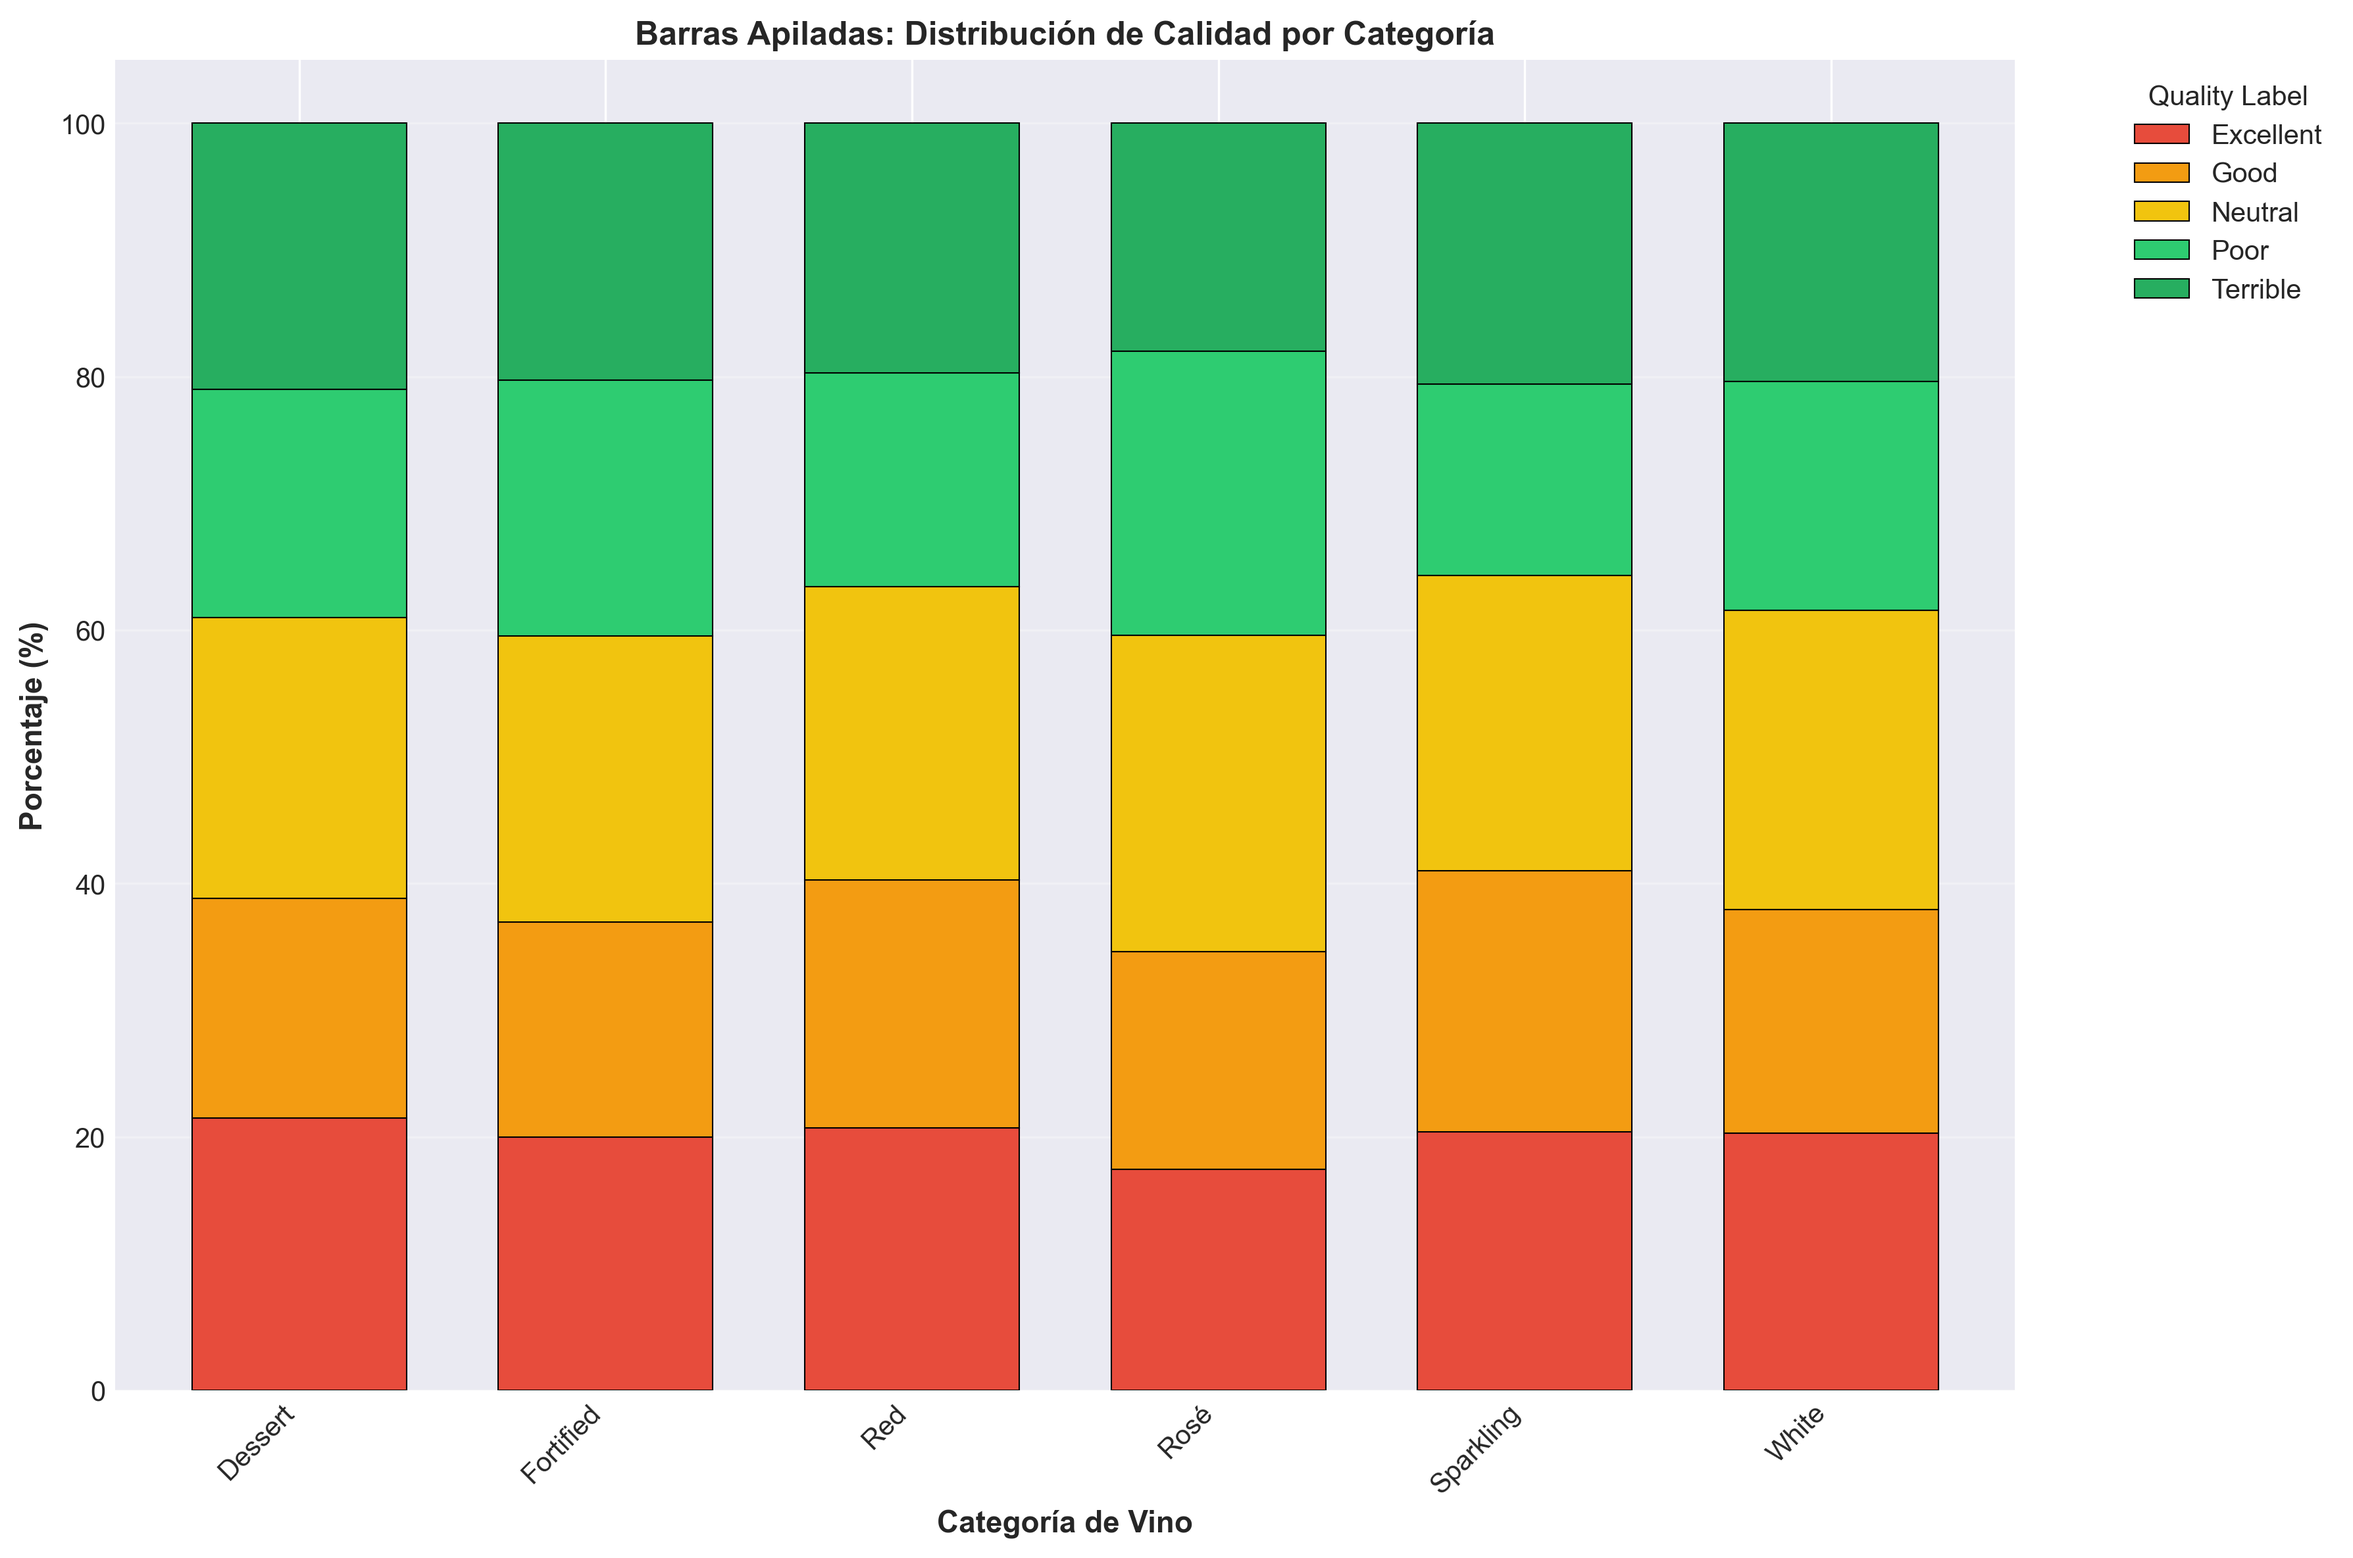
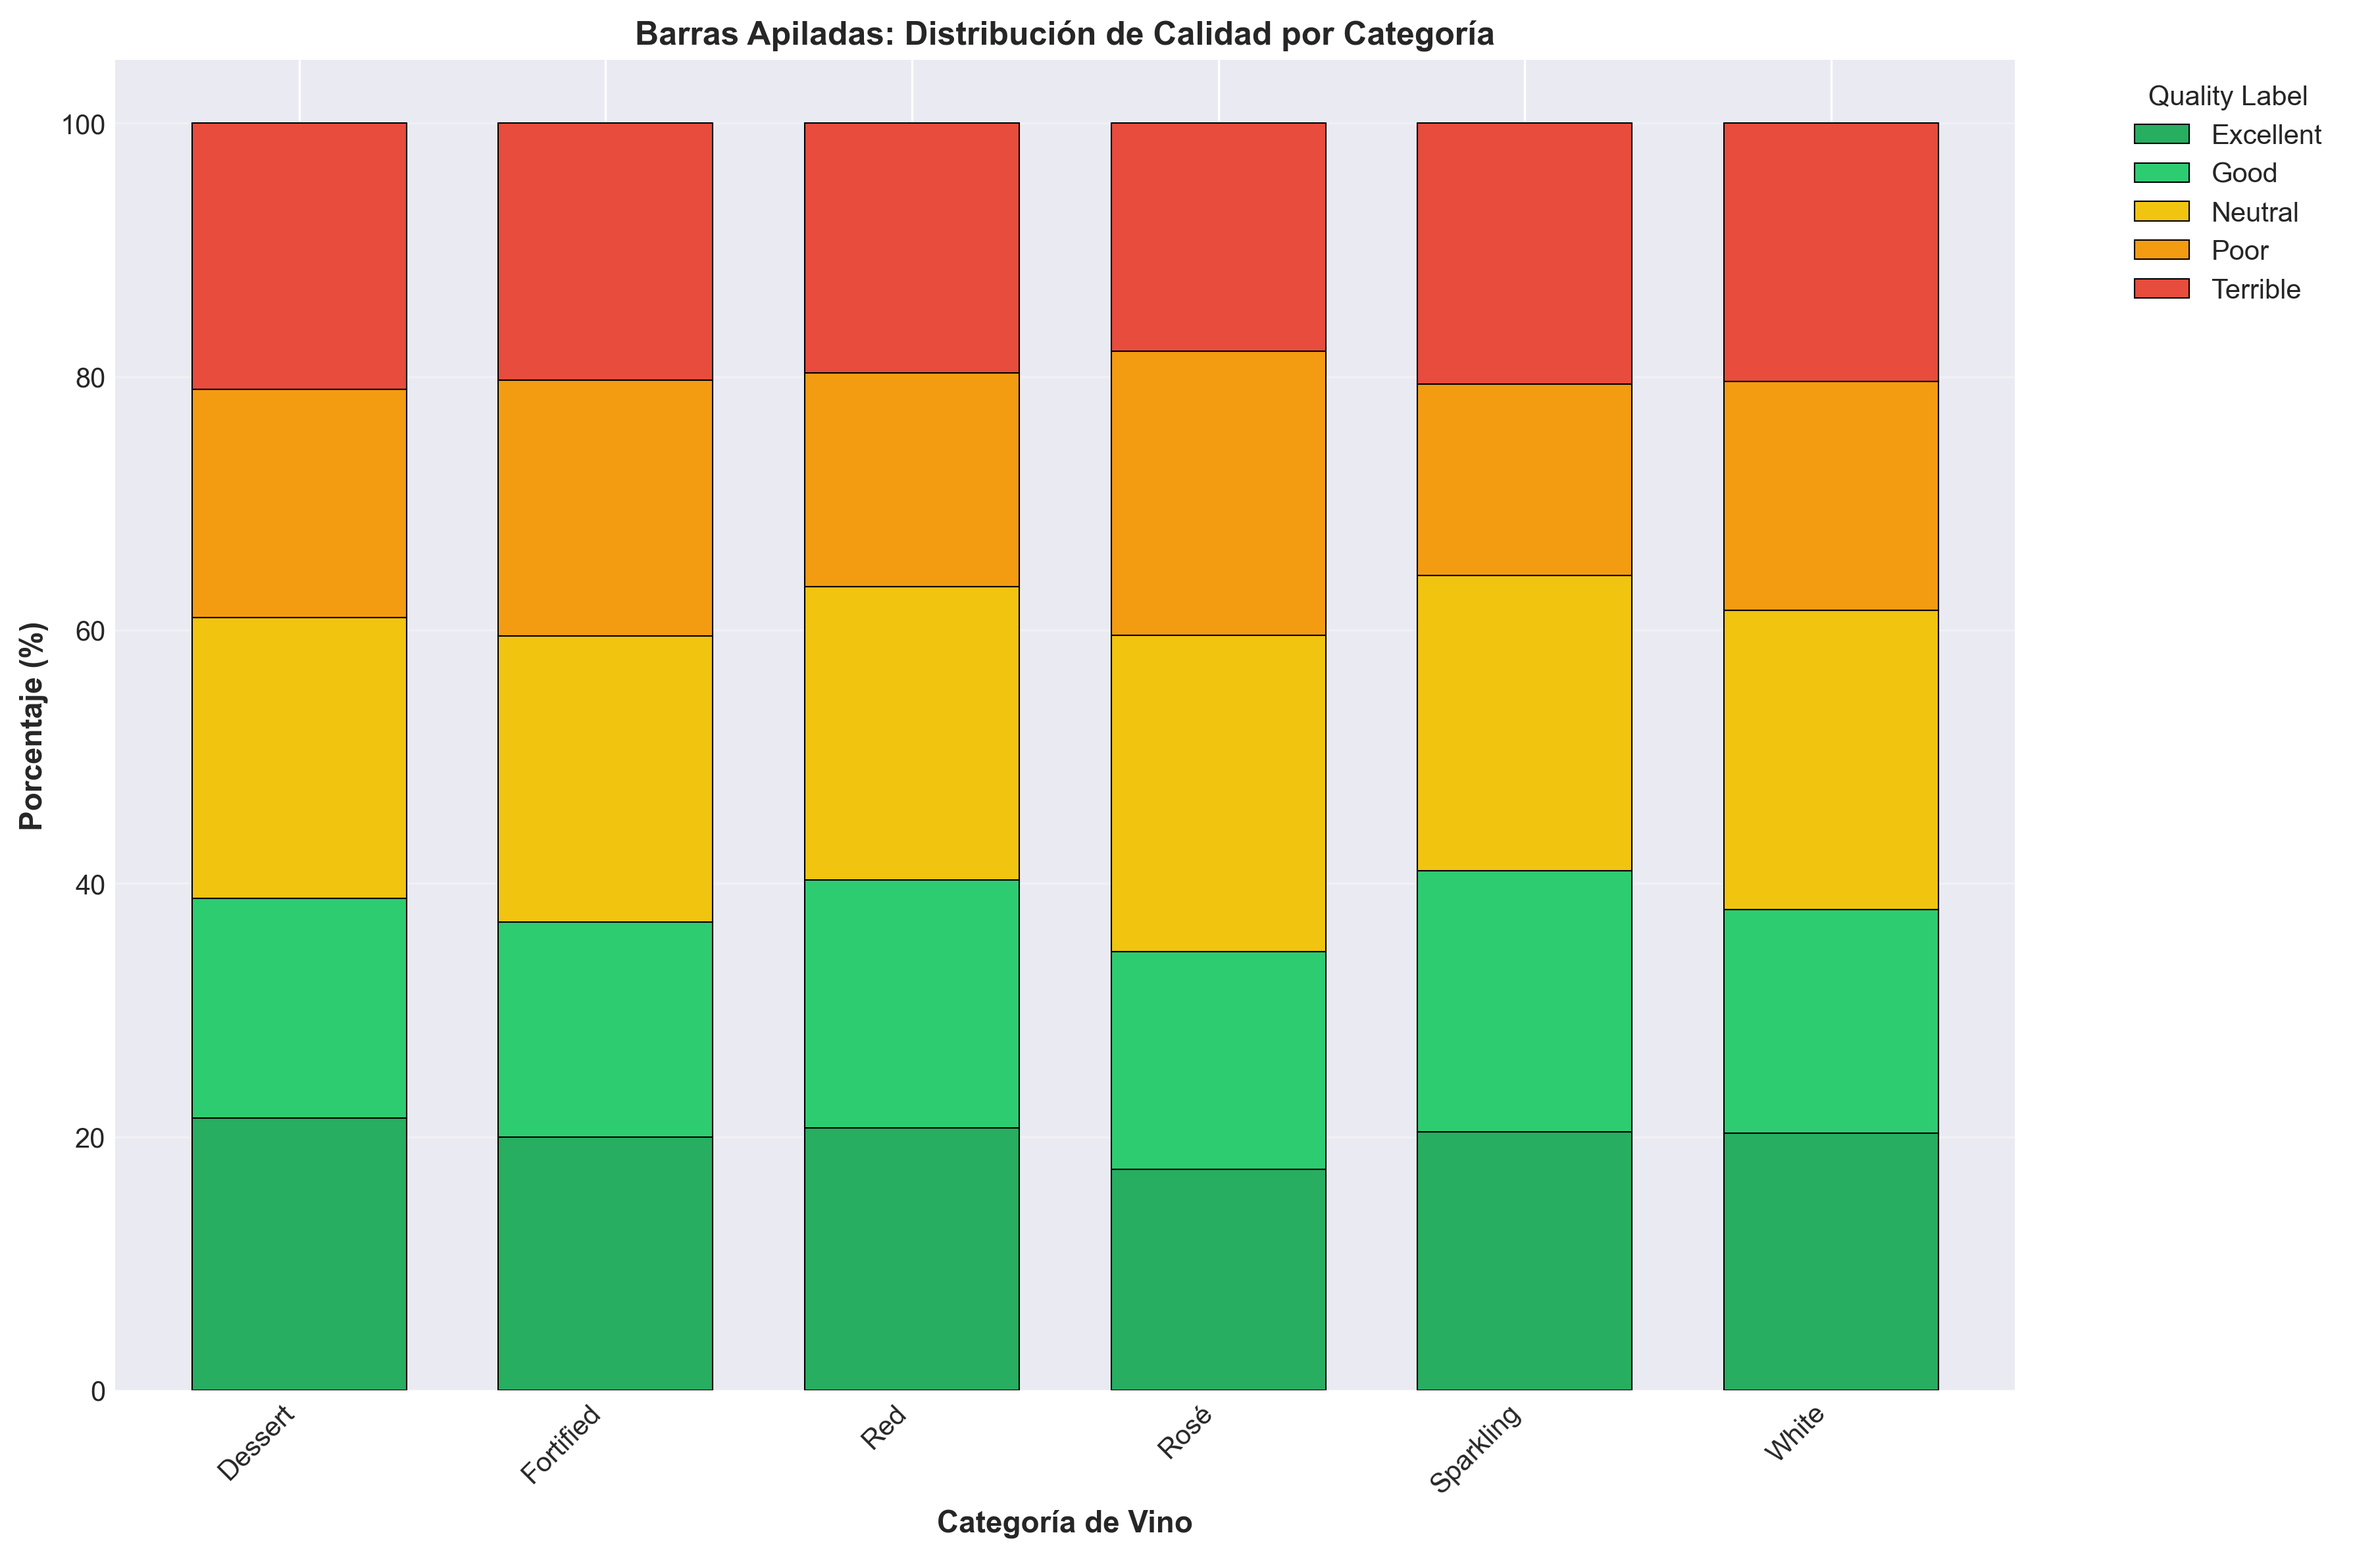
update

diff --git a/proyecto-vinos/app/sections/categorias/page.tsx b/proyecto-vinos/app/sections/categorias/page.tsx
@@ -29,20 +29,20 @@ export default function CategoriasPage() {
             </h3>
             <p className="text-muted-foreground mb-4">
               Los vinos se clasifican en categorías de calidad basadas en evaluaciones sensoriales
-              realizadas por expertos. La escala va de 0 a 10, donde valores más altos indican
+              realizadas por expertos. La escala va de 1 a 5, donde valores más altos indican
               mayor calidad percibida.
             </p>
             <div className="grid md:grid-cols-3 gap-4 text-sm">
               <div className="p-3 bg-card rounded-lg">
-                <div className="text-primary font-semibold mb-1">Calidad Baja (3-4)</div>
+                <div className="text-primary font-semibold mb-1">Calidad Baja (1-2)</div>
                 <div className="text-muted-foreground">Vinos con defectos notables o desequilibrados</div>
               </div>
               <div className="p-3 bg-card rounded-lg">
-                <div className="text-primary font-semibold mb-1">Calidad Media (5-6)</div>
+                <div className="text-primary font-semibold mb-1">Calidad Media (2-4)</div>
                 <div className="text-muted-foreground">Vinos correctos, representan la mayoría</div>
               </div>
               <div className="p-3 bg-card rounded-lg">
-                <div className="text-primary font-semibold mb-1">Calidad Alta (7-8)</div>
+                <div className="text-primary font-semibold mb-1">Calidad Alta (4-5)</div>
                 <div className="text-muted-foreground">Vinos de excelencia, bien balanceados</div>
               </div>
             </div>
@@ -73,7 +73,6 @@ export default function CategoriasPage() {
             description="Explora la distribución de categorías de calidad de forma interactiva"
             notebook="analisis_categorias.ipynb"
             section="Categorías"
-            height="650px"
           />
         </section>
 
